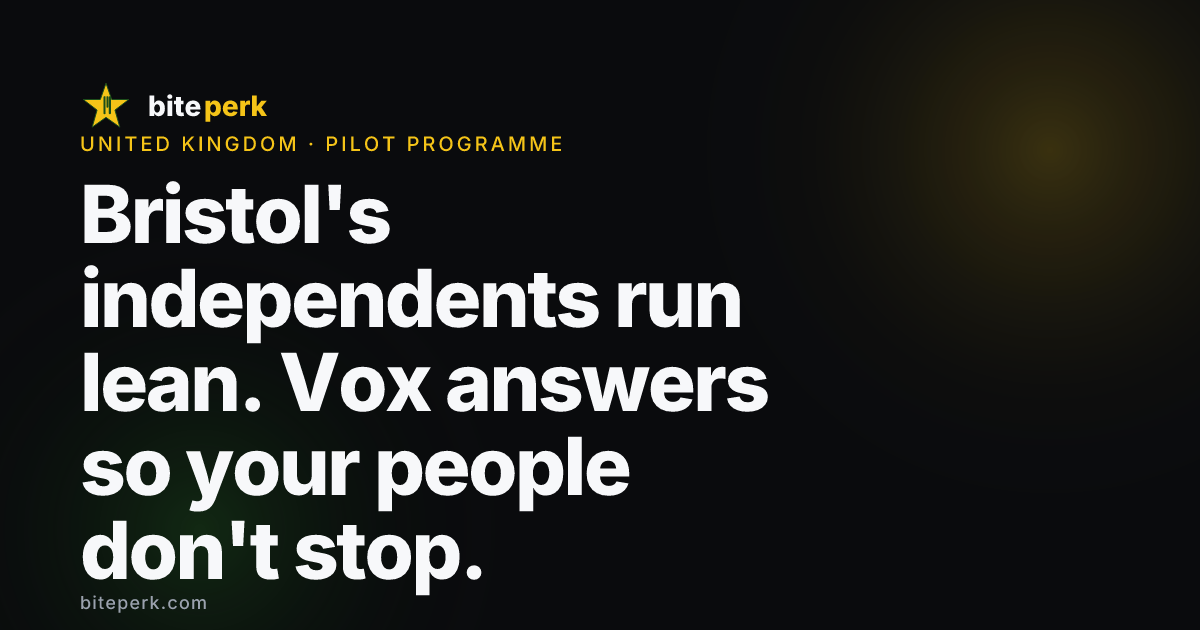
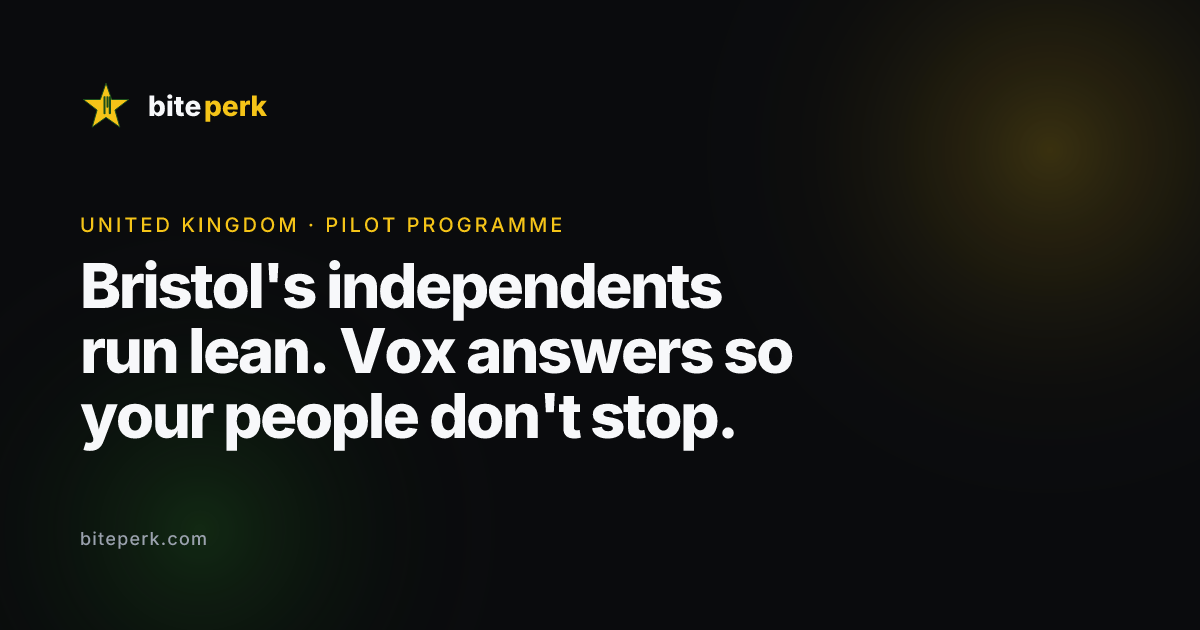
feat(intl): go live — publish all 9 new French cities (Ludovic passed A+B+C)
Ludovic gave a verbal native pass on all three batches on 7 Sep 2026 (relayed
by Sam), green light to ship. Flip Lyon, Marseille, Nice, Bordeaux, Toulouse,
Lille, Nantes, Strasbourg, Montpellier to published:true — /fr now carries ten
cities. Review sheets a/b/c → PASSED.

- OG cards for all nine generated (<slug>-fr.png), pixel-reviewed.
- generate-og: fit-to-box headline — long French city headlines (~75+ chars)
  overflowed the 630px card at 80px; step them to 62px so they fit. Re-rendered
  the long-headline UK/Paris cards consistently (strictly smaller, never worse).
- lighthouserc: add /fr/lyon/ as the representative French city page now that it
  builds (it was held back while unpublished).

Verified: check 0 errors; build:site clean (121 sitemap URLs); gates:global
35/35 + check-cities 20 published (9 EN, 11 FR) pass all gates incl. the full
55-pair French similarity matrix and the cityscape weight cap; check-assets
3479 refs resolve; hreflang/truthful clean.

diff --git a/src/data/intl/cities.ts b/src/data/intl/cities.ts
@@ -1063,7 +1063,7 @@ export const intlCities: readonly IntlCity[] = [
     base: "/fr",
     copyLang: "fr",
     name: "Lyon",
-    published: false,
+    published: true,
     seoTitle: "Répondeur téléphonique IA pour les restaurants lyonnais — Vox par BitePerk",
     seoDescription:
       "Vox répond au téléphone de votre bouchon ou restaurant à Lyon d'une voix naturelle, vérifie le registre et prend la réservation pendant que la cuisine tourne. Pilotes ouverts en France.",
@@ -1157,7 +1157,7 @@ export const intlCities: readonly IntlCity[] = [
     base: "/fr",
     copyLang: "fr",
     name: "Marseille",
-    published: false,
+    published: true,
     seoTitle: "Répondeur téléphonique IA pour les restaurants marseillais — Vox par BitePerk",
     seoDescription:
       "Vox répond au téléphone de votre restaurant à Marseille d'une voix naturelle, note les commandes passées à l'avance et vérifie le registre pendant que la salle tourne. Pilotes ouverts en France.",
@@ -1250,7 +1250,7 @@ export const intlCities: readonly IntlCity[] = [
     base: "/fr",
     copyLang: "fr",
     name: "Nice",
-    published: false,
+    published: true,
     seoTitle: "Répondeur téléphonique IA pour les restaurants niçois — Vox par BitePerk",
     seoDescription:
       "Vox répond au téléphone de votre restaurant à Nice d'une voix naturelle, tient la ligne quand la saison déborde et vérifie le registre réel. Pilotes ouverts en France.",
@@ -1343,7 +1343,7 @@ export const intlCities: readonly IntlCity[] = [
     base: "/fr",
     copyLang: "fr",
     name: "Bordeaux",
-    published: false,
+    published: true,
     seoTitle: "Répondeur téléphonique IA pour les restaurants bordelais — Vox par BitePerk",
     seoDescription:
       "Vox répond au téléphone de votre restaurant à Bordeaux d'une voix naturelle, prend les grandes tablées et les menus accordés et vérifie le registre. Pilotes ouverts en France.",
@@ -1436,7 +1436,7 @@ export const intlCities: readonly IntlCity[] = [
     base: "/fr",
     copyLang: "fr",
     name: "Toulouse",
-    published: false,
+    published: true,
     seoTitle: "Répondeur téléphonique IA pour les restaurants toulousains — Vox par BitePerk",
     seoDescription:
       "Vox répond au téléphone de votre restaurant à Toulouse d'une voix naturelle, tient la ligne au coup de feu de midi et vérifie le registre réel. Pilotes ouverts en France.",
@@ -1531,7 +1531,7 @@ export const intlCities: readonly IntlCity[] = [
     base: "/fr",
     copyLang: "fr",
     name: "Lille",
-    published: false,
+    published: true,
     seoTitle: "Répondeur téléphonique IA pour les restaurants lillois — Vox par BitePerk",
     seoDescription:
       "Vox répond au téléphone de votre estaminet ou restaurant à Lille d'une voix naturelle, tient la ligne les week-ends chargés et vérifie le registre. Pilotes ouverts en France.",
@@ -1624,7 +1624,7 @@ export const intlCities: readonly IntlCity[] = [
     base: "/fr",
     copyLang: "fr",
     name: "Nantes",
-    published: false,
+    published: true,
     seoTitle: "Répondeur téléphonique IA pour les restaurants nantais — Vox par BitePerk",
     seoDescription:
       "Vox répond au téléphone de votre restaurant à Nantes d'une voix naturelle, encaisse les week-ends en famille et vérifie le registre. Pilotes ouverts en France.",
@@ -1717,7 +1717,7 @@ export const intlCities: readonly IntlCity[] = [
     base: "/fr",
     copyLang: "fr",
     name: "Strasbourg",
-    published: false,
+    published: true,
     seoTitle: "Répondeur téléphonique IA pour les restaurants strasbourgeois — Vox par BitePerk",
     seoDescription:
       "Vox répond au téléphone de votre winstub ou restaurant à Strasbourg d'une voix naturelle, encaisse les semaines de pointe et vérifie le registre. Pilotes ouverts en France.",
@@ -1810,7 +1810,7 @@ export const intlCities: readonly IntlCity[] = [
     base: "/fr",
     copyLang: "fr",
     name: "Montpellier",
-    published: false,
+    published: true,
     seoTitle: "Répondeur téléphonique IA pour les restaurants montpelliérains — Vox par BitePerk",
     seoDescription:
       "Vox répond au téléphone de votre restaurant à Montpellier d'une voix naturelle, décroche tard quand la salle est pleine et vérifie le registre. Pilotes ouverts en France.",

diff --git a/docs/ops-records/2026-09-07-french-review-fr-cities-batch-c.md b/docs/ops-records/2026-09-07-french-review-fr-cities-batch-c.md
@@ -1,9 +1,8 @@
 # French native review — /fr cities batch C (Nantes, Strasbourg, Montpellier)
 
-- **Status:** ⏳ PENDING Ludovic's native pass — cities are staged `published: false`
-  and must not flip live until this batch is signed off. When he passes it, change
-  this line to the dated pass and note the medium (verbal/email), exactly as the
-  other `docs/ops-records/…-french-review-*` sheets do.
+- **Status:** ✅ PASSED — Ludovic gave a verbal native pass on 7 Sep 2026 (relayed
+  by Sam), happy with everything, green light to go ahead. The cities in this
+  batch are flipped `published: true` and shipped.
 - **Reviewer:** Ludovic (native French)
 - **Pages:** /fr/nantes, /fr/strasbourg, /fr/montpellier
 - **Scope:** hand-written per-city French in `src/data/intl/cities.ts` plus the

diff --git a/docs/ops-records/2026-09-07-french-review-fr-cities-batch-b.md b/docs/ops-records/2026-09-07-french-review-fr-cities-batch-b.md
@@ -1,9 +1,8 @@
 # French native review — /fr cities batch B (Bordeaux, Toulouse, Lille)
 
-- **Status:** ⏳ PENDING Ludovic's native pass — cities are staged `published: false`
-  and must not flip live until this batch is signed off. When he passes it, change
-  this line to the dated pass and note the medium (verbal/email), exactly as the
-  other `docs/ops-records/…-french-review-*` sheets do.
+- **Status:** ✅ PASSED — Ludovic gave a verbal native pass on 7 Sep 2026 (relayed
+  by Sam), happy with everything, green light to go ahead. The cities in this
+  batch are flipped `published: true` and shipped.
 - **Reviewer:** Ludovic (native French)
 - **Pages:** /fr/bordeaux, /fr/toulouse, /fr/lille
 - **Scope:** hand-written per-city French in `src/data/intl/cities.ts` plus the

diff --git a/docs/ops-records/2026-09-07-french-review-fr-cities-batch-a.md b/docs/ops-records/2026-09-07-french-review-fr-cities-batch-a.md
@@ -1,9 +1,8 @@
 # French native review — /fr cities batch A (Lyon, Marseille, Nice)
 
-- **Status:** ⏳ PENDING Ludovic's native pass — cities are staged `published: false`
-  and must not flip live until this batch is signed off. When he passes it, change
-  this line to the dated pass and note the medium (verbal/email), exactly as the
-  other `docs/ops-records/…-french-review-*` sheets do.
+- **Status:** ✅ PASSED — Ludovic gave a verbal native pass on 7 Sep 2026 (relayed
+  by Sam), happy with everything, green light to go ahead. The cities in this
+  batch are flipped `published: true` and shipped.
 - **Reviewer:** Ludovic (native French)
 - **Pages:** /fr/lyon, /fr/marseille, /fr/nice
 - **Scope:** hand-written per-city French in `src/data/intl/cities.ts` plus the
